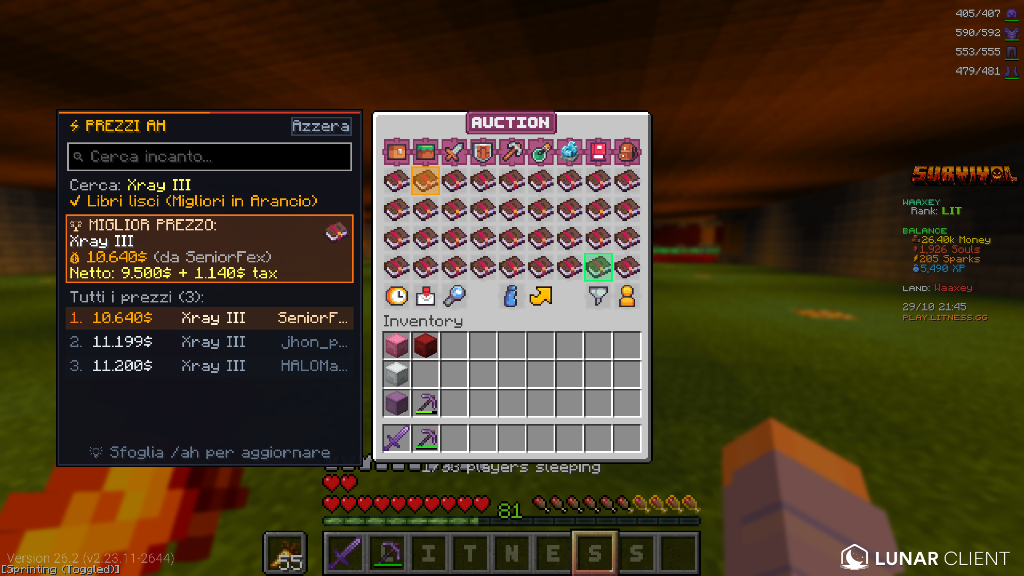
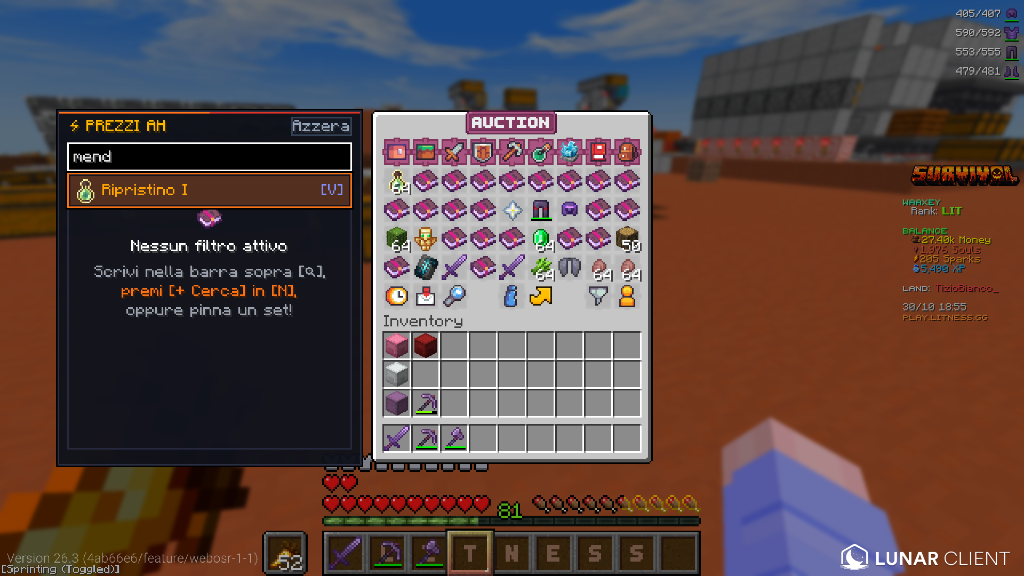
Docs: aggiornate descrizioni sotto gli screenshot e preview /ah v1.2.5

diff --git a/README.md b/README.md
@@ -32,28 +32,31 @@ Sul server Litness, forgiare spade, archi, picconi o armature con 10–12 incant
 
 ### 1. ⚡ Assistente Incudine in Tempo Reale
 ![Assistente Incudine](docs/images/preview_anvil_v125.png)
-- **Sidebar integrata in Dark Glass**: non appena apri un'incudine di gioco, compare lateralmente un'elegante interfaccia trasparente a tema scuro perfettamente allineata alla GUI nativa di Minecraft.
+- **Nuova GUI Ingrandita in Dark Glass (v1.2.5)**: interfaccia laterale ampliata (182px di larghezza per 176px di altezza) con design scuro premium, perfettamente allineata all'incudine, con spaziatura interna generosa che elimina qualsiasi testo tagliato o sovrapposizione.
 - **Ologramma Pulsante (Ghost Slot)**: quando lo slot 1 dell'incudine è vuoto, viene renderizzata una sagoma olografica semitrasparente e dorata che pulsa morbidamente, con il tooltip: *"Inserisci l'item desiderato per iniziare la guida."*. L'ologramma svanisce istantaneamente non appena posizioni l'arma o l'armatura!
 - **Analisi Intelligente Maxabilità & Limite 39 Livelli ("Troppo Costoso!")**:
   - Rileva in automatico la penalità pregressa da lavorazione (*Prior Work Penalty*) di oggetti già usati o parzialmente incantati.
-  - Se l'oggetto ha margine per essere completato con tutti i 12 incantesimi, mostra il badge `✔ Maxabile (12/12)`.
+  - Se l'oggetto ha margine per essere completato con tutti i 12 incantesimi, mostra il badge verde `✔ Maxabile (12/12)`.
   - Se il tetto dei 39 livelli impedirebbe il completamento totale, la mod calcola matematicamente a ritroso e avvisa subito:  
-    `⚠ Troppo Costoso se provi a maxarlo tutto! Puoi aggiungere ancora fino a N incantesimi (Max +N)`.
+    `⚠ ATTENZIONE PENALITÀ: Puoi aggiungere ancora fino a +N incanti con guida.` oppure `⛔ TROPPO COSTOSO!`.
   - Passando il mouse sopra l'item o sul riquadro informativo, appare un tooltip dettagliato con penalità attuale, storico delle lavorazioni e stima dei passaggi residui.
-- **Riconoscimento Automatico di Armi e Strumenti**: riconosce all'istante la tipologia dell'oggetto (Spade, Archi, Balestre, Mazze, Tridenti, Picconi, Asce e Armature), aggiornando istruzioni e badge su misura (es. `🏹 TEMPRA ARCO`, `🗡 TEMPRA SU OGGETTO`).
-- **Istruzioni Chiare di Fusione**:
-  - `📖 UNISCI LIBRI`: ti mostra esattamente quali due libri del tuo inventario combinare per primi per mantenere bassa la penalità.
-  - `🗡 TEMPRA SU OGGETTO`: ti segnala il momento perfetto in cui fondere il libro combinato direttamente sul tuo equipaggiamento.
+- **Istruzioni Chiare a Colori per Slot**:
+  - `🔨 UNISCI 2 LIBRI`: indica con chiarezza `Slot 1:` in celeste e `Slot 2:` in rosa, con il costo esatto in livelli XP in verde smeraldo e il promemoria `💡 Metti prima i 2 libri` per evitare combinazioni accidentali.
+  - `🗡 TEMPRA SU OGGETTO`: ti segnala il momento perfetto in cui fondere il libro combinato direttamente sul tuo equipaggiamento (`Metti nello Slot 2:` con relativo costo).
+- **Doppio Pulsante Rapido Integrato**:
+  - `📋 Guida Completa [N]`: posizionato subito sotto la sidebar per aprire all'istante l'albero di fusione completo.
+  - `📋 Guida Passi`: tasto compatto posizionato direttamente sopra la cornice dell'incudine senza sovrapporsi al titolo.
+- **Riconoscimento Automatico di Armi e Strumenti**: riconosce all'istante la tipologia dell'oggetto (Spade, Archi, Balestre, Mazze, Tridenti, Picconi, Asce e Armature), aggiornando istruzioni e badge su misura (es. `🏹 TEMPRA ARCO`, `🗡 TEMPRA SPADA`, `⛏ TEMPRA PICCONE`).
 
 ---
 
 ### 2. 📖 Guida alla Fusione Passo-Passo (Albero Ottimale)
 ![Guida alla Fusione](docs/images/preview_guide.png)
-- **Albero Binario Pareto-Ottimale**: calcola la sequenza matematica perfetta che minimizza sia la penalità da incudine che la spesa totale di livelli XP.
+- **Albero Binario Pareto-Ottimale**: calcola la sequenza matematica perfetta che minimizza sia la penalità da incudine che la spesa totale di livelli XP, eliminando a monte il rischio di incappare nel blocco "Troppo Costoso!".
 - **Icone Grafiche Minecraft Native**: ogni step illustra visivamente gli slot dell'incudine (Slot 1, Slot 2 e Risultato) con gli sprite grafici ufficiali di Minecraft per armi, attrezzi e libri.
 - **Tracking Inventario in Tempo Reale**: su ogni passaggio della guida, un badge verde `✔ In Inventario` ti segnala se possiedi già quel libro nel tuo inventario personale.
 - **Selettore di Penalità Iniziale (`[Pen: +X]`)**: pulsanti rapidi in cima alla schermata per simulare o calcolare la guida partendo da oggetti che hanno già penalità pregressa (+0, +1, +3, +7, +15, +31).
-- **Copia Rapida Negli Appunti (`[📋 Copia Passi]`)**: copia con un solo clic l'intera sequenza ordinata con costi ed XP, pronta per essere condivisa su Discord o appuntata.
+- **Copia Rapida Negli Appunti (`[📋 Copia Passi]`)**: copia con un solo clic l'intera sequenza ordinata con costi ed XP, pronta per essere condivisa su Discord o salvata nelle note.
 
 ---
 
@@ -69,7 +72,8 @@ Sul server Litness, forgiare spade, archi, picconi o armature con 10–12 incant
 
 ### 4. 📌 Pin HUD Checklist in Gioco (Real-Time Tracking)
 ![Pin HUD In Gioco](docs/images/preview_hud_v125.png)
-- **Checklist Sempre Attiva a Schermo**: segui l'avanzamento del tuo set direttamente in partita senza dover riaprire i menù.
+- **Checklist Sempre Attiva a Schermo**: segui l'avanzamento del tuo set direttamente in partita in alto a sinistra senza dover riaprire i menù.
+- **Header con Conteggio Dinamico**: mostra il tipo di oggetto e il numero di incantesimi applicati in tempo reale (es. `⚡ Gambali (0/10)`, `⚡ Spada (3/12)`).
 - **Tre Stati Visivi Intelligenti**:
   - 🟢 `✔ In Inventario`: se il libro incantato è presente nel tuo inventario.
   - 🟣 `✔ Applicato`: se l'incantesimo è già presente sull'oggetto impugnato o indossato nello slot corretto.
@@ -107,12 +111,12 @@ Sul server Litness, forgiare spade, archi, picconi o armature con 10–12 incant
 ---
 
 ### 8. 🟢 Assistente Prezzi /ah & Ricerca in Casse, Shulker ed Ender Chest!
-![Assistente Prezzi AH ed Evidenziazione](docs/images/preview_ah_v124.png)
+![Assistente Prezzi AH ed Evidenziazione](docs/images/preview_ah_v125.png)
 - **Sidebar Laterale Intelligente `/ah` con Ricerca Live**: aprendo la Casa d'Aste (`/ah`), compare a sinistra una sidebar interattiva (*⚡ PREZZI AH*) con campo di ricerca in tempo reale per digitare il nome dell'incantesimo senza dover sfogliare decine di pagine a vuoto.
-- **Completamento Automatico con Icone Native Minecraft**: mentre scrivi, la tendina suggerisce istantaneamente gli incantesimi compatibili con l'icona grafica nativa dello strumento associato e i tag di categoria:
-  - `[V]` = Incantesimi **Vanilla** (es. *Atterraggio morbido*, *Maledizione del legame*, *Impalamento*).
-  - `[V+]` = Incantesimi **Vanilla+** (es. *Efficienza VI*).
-  - `[C]` = Incantesimi **Custom** esclusivi di Litness (es. *Xray*, *Berserker*, *Telecinesi*).
+- **Completamento Automatico con Icone Native & Selezione 1-Click**:
+  - Mentre digiti nella barra (es. `mend`), la tendina suggerisce all'istante l'incantesimo con l'icona grafica nativa dello strumento, il nome italiano e i tag categoria (`[V]` Vanilla, `[V+]` Vanilla+, `[C]` Custom esclusivi di Litness).
+  - Cliccando sul suggerimento con il mouse o premendo Invio, il filtro si attiva immediatamente su tutta l'asta e sui contenitori con notifica a schermo (`✔ Filtro attivato: Ripristino I`).
+- **Pulsante Rapido `[Azzera]`**: posto in alto a destra nella sidebar per cancellare il filtro e resettare la ricerca con un solo clic.
 - **Confronto Prezzi Intelligente & Calcolo Tasse Server (`MIGLIOR PREZZO`)**:
   - Scansiona tutti i libri in vendita nell'asta e individua automaticamente l'offerta più economica.
   - Calcola in automatico il prezzo netto e le tasse di compravendita del server (es. `Netto: 9.500$ + 1.140$ tax`).
@@ -123,8 +127,7 @@ Sul server Litness, forgiare spade, archi, picconi o armature con 10–12 incant
 - **Rilevamento Profondo in Bauli, Casse, Barili e Shulker**:
   - Puoi attivare la ricerca anche dal **Catalogo Incantesimi** (tasto `N`) con il pulsante `[+ Cerca AH]`.
   - Aprendo qualsiasi Baule, Cassa doppia, Barile o Ender Chest, tutti i libri cercati si illuminano di verde.
-  - Se il libro si trova **all'interno di una Shulker Box**, l'intera scatola di Shulker si illumina in verde, indicandoti subito dove si trova senza dover aprire decine di shulker a caso.
-  - Pulsante rapido `[Azzera]` in alto a destra della sidebar per resettare qualsiasi ricerca attiva con un solo clic.
+  - Se il libro si trova **all'interno di una Shulker Box**, l'intera scatola di Shulker si illumina in verde dall'esterno, indicandoti subito dove si trova senza dover aprire decine di shulker a vuoto.
 
 ---
 
@@ -137,10 +140,17 @@ Sul server Litness, forgiare spade, archi, picconi o armature con 10–12 incant
   - Aggiornato l'intero codice sorgente per supportare nativamente **Minecraft 26.3** e Fabric API 0.160.7.
   - Migrazione al nuovo motore di input standard (`InputConstants.Type.KEYBOARD`), aggiornate le API delle Bundle (`itemCopies()`) e del browser di sistema.
   - Pienamente compatibile con il profilo **Lunar Client 26.3** (`fabric-26.3`).
+- 📐 **Interfaccia Laterale Incudine Ingrandita & Layout Anti-Taglio**:
+  - Sidebar estesa a 182px di larghezza e 176px di altezza (`imageHeight + 10`), allineandosi al tasto superiore `Guida Passi`.
+  - Spaziatura interna riprogettata per garantire che nessuna riga di testo venga mai tagliata o collida con il bordo inferiore.
+  - Istruzioni di forgiatura perfezionate: `Slot 1` in celeste, `Slot 2` in rosa, costo XP in verde smeraldo e suggerimento intelligente `💡 Metti prima i 2 libri`.
+  - Tasto `Guida Completa [N]` integrato subito sotto la sidebar.
+- 🖱 **Fix Selezione Dropdown & Tasto Azzera in `/ah`**:
+  - Risolto il problema del click sinistro sui suggerimenti della tendina di completamento e sul pulsante `Azzera` della sidebar dell'asta, ora compatibile con il modello eventi di Minecraft 26.3.
 - 🛡 **Analisi Intelligente Maxabilità & Calcolo Limite 39 Livelli ("Troppo Costoso!")**:
   - Se inserisci nell'incudine un'arma o armatura che è già stata incantata in precedenza (accumulando la *Prior Work Penalty*), la mod analizza istantaneamente la fattibilità matematica di tutti i rami di fusione possibili.
   - **Avviso Preventivo Troppo Costoso**: se l'oggetto non può raggiungere tutti gli incantesimi massimi (es. 12/12) a causa del tetto vanilla dei 39 livelli, la mod lo segnala subito:
-    `⚠ Troppo Costoso se provi a maxarlo tutto! Puoi aggiungere ancora fino a N incantesimi (Max +N)`.
+    `⚠ ATTENZIONE PENALITÀ: Puoi aggiungere ancora fino a +N incanti con guida.` oppure `⛔ TROPPO COSTOSO!`.
   - **Badge e Tooltip Trasparente**: un badge dinamico nella sidebar e un tooltip dedicato mostrano il livello di penalità esatto, il numero di lavorazioni pregresse e gli incantesimi residui applicabili.
 - 👻 **Ologramma Pulsante (Ghost Slot) nello Slot 1 dell'Incudine**:
   - Quando lo slot 1 reale dell'incudine è vuoto, viene renderizzata una sagoma olografica semitrasparente e pulsante (con animazione dorata fluida) dell'arma o armatura consigliata.
@@ -152,8 +162,8 @@ Sul server Litness, forgiare spade, archi, picconi o armature con 10–12 incant
   - Risolto il problema per cui inserendo un arco nell'incudine veniva indicato il tema "Spada". Ora rileva in modo affidabile Archi, Balestre, Spade, Mazze, Tridenti e attrezzi, aggiornando badge (`🏹 TEMPRA ARCO`), categorie e guida in automatico.
 - 📊 **Sidebar Prezzi Live, Ricerca Rapida e Icone Grafiche in `/ah`**:
   - Interfaccia laterale integrata con barra di ricerca, icone native Minecraft, calcolo delle tasse, evidenziazione del miglior prezzo in arancione, lista venditori e tag `[V]`, `[V+]`, `[C]`.
-- 📖 **Documentazione e Guide Sotto gli Screenshot Completamente Rinnovate**:
-  - Riscritte tutte le sezioni descrittive del README per riflettere le funzionalità e il design moderno della mod.
+- 📖 **Documentazione e Screenshot Sincronizzati**:
+  - Aggiornati tutti gli screenshot (`preview_anvil_v125.png`, `preview_ah_v125.png`, `preview_hud_v125.png`) e riscritte tutte le descrizioni sotto ogni sezione.
 
 ---
 
